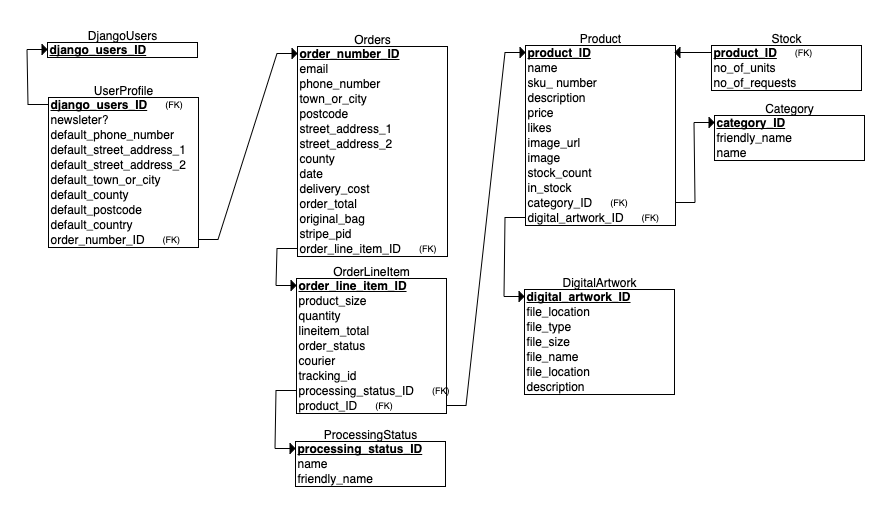
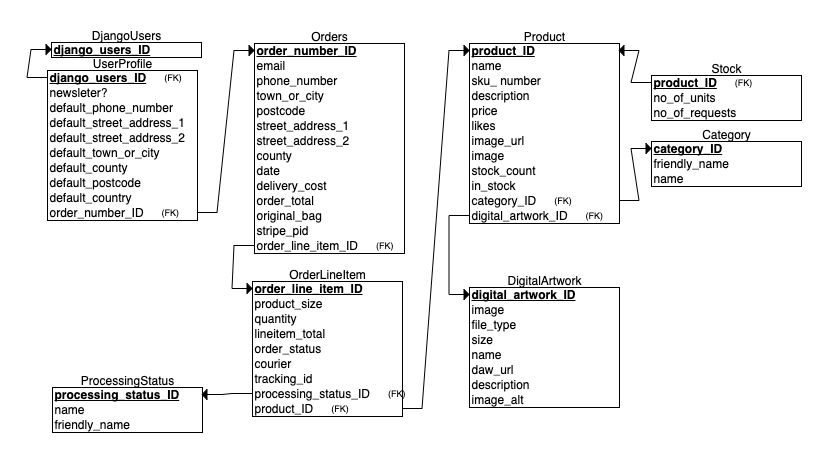
Use images from Digital ArtWorks model in carousel

diff --git a/home/templates/home/index.html b/home/templates/home/index.html
@@ -11,20 +11,17 @@
             </div>
             <div id="homeCarousel" class="carousel slide mt-5" data-ride="carousel">
                 <ol class="carousel-indicators">
-                    <li data-target="#homeCarousel" data-slide-to="0" class="active"></li>
-                    <li data-target="#homeCarousel" data-slide-to="1"></li>
-                    <li data-target="#homeCarousel" data-slide-to="2"></li>
+                    {% for ca in carousel_artworks %}
+                    <li data-target="#homeCarousel" data-slide-to="ca.counter0" {% if forloop.first %}class="active"
+                        {% endif %}></li>
+                    {% endfor %}
                 </ol>
                 <div class="carousel-inner">
-                    <div class="carousel-item active">
-                        <img class="d-block w-100" src="/media/carousel-test-img-1_GAthQsc.png" alt="First slide">
+                    {% for ca in carousel_artworks %}
+                    <div class="carousel-item {% if forloop.first %}active{% endif %}">
+                        <img class="d-block w-100" src="{{ ca.image.url }}" alt="{{ ca.image_alt}}">
                     </div>
-                    <div class="carousel-item">
-                        <img class="d-block w-100" src="/media/carousel-test-img-2_K6Fv6mg.png" alt="Second slide">
-                    </div>
-                    <div class="carousel-item">
-                        <img class="d-block w-100" src="/media/carousel-test-img-3_9a2EvGL.jpeg" alt="Third slide">
-                    </div>
+                    {% endfor %}
                 </div>
                 <a class="carousel-control-prev" href="#homeCarousel" role="button" data-slide="prev">
                     <span class="carousel-control-prev-icon" aria-hidden="true"></span>

diff --git a/digital_artworks/migrations/0002_auto_20230706_1420.py b/digital_artworks/migrations/0002_auto_20230706_1420.py
@@ -1,0 +1,25 @@
+# Generated by Django 3.2.19 on 2023-07-06 14:20
+
+from django.db import migrations, models
+
+
+class Migration(migrations.Migration):
+
+    dependencies = [
+        ('digital_artworks', '0001_initial'),
+    ]
+
+    operations = [
+        migrations.AddField(
+            model_name='digitalartwork',
+            name='carousel',
+            field=models.BooleanField(default=True),
+            preserve_default=False,
+        ),
+        migrations.AddField(
+            model_name='digitalartwork',
+            name='image_alt',
+            field=models.CharField(default='alt text', max_length=254),
+            preserve_default=False,
+        ),
+    ]

diff --git a/home/views.py b/home/views.py
@@ -1,9 +1,16 @@
 from django.shortcuts import render
+from digital_artworks.models import DigitalArtWork
 
 # Create your views here.
 
 
 def index(request):
-    """ Index page return view """
-
-    return render(request, 'home/index.html')
+    """ Return index page view and Digital Art Work context
+        data for Carousel.
+    """
+    artworks = DigitalArtWork.objects.all()
+    carousel_artworks = artworks.filter(carousel=True)
+    context = {
+        'carousel_artworks': carousel_artworks,
+    }
+    return render(request, 'home/index.html', context)

diff --git a/digital_artworks/models.py b/digital_artworks/models.py
@@ -7,9 +7,11 @@ class DigitalArtWork(models.Model):
     name = models.CharField(max_length=254)
     daw_url = models.URLField(max_length=1024, null=True, blank=True)
     image = models.ImageField(null=True, blank=True)
+    image_alt = models.CharField(max_length=254)
     description = models.TextField()
     size = models.CharField(max_length=254, null=True, blank=True)
     file_type = models.CharField(max_length=10, null=True, blank=True)
+    carousel = models.BooleanField()
 
     def __str__(self):
         return self.name

diff --git a/digital_artworks/admin.py b/digital_artworks/admin.py
@@ -8,6 +8,7 @@ class DigitalArtWorkAdmin(admin.ModelAdmin):
     list_display = (
         'name',
         'image',
+        'image_alt',
         'description',
         'size',
         'file_type',
